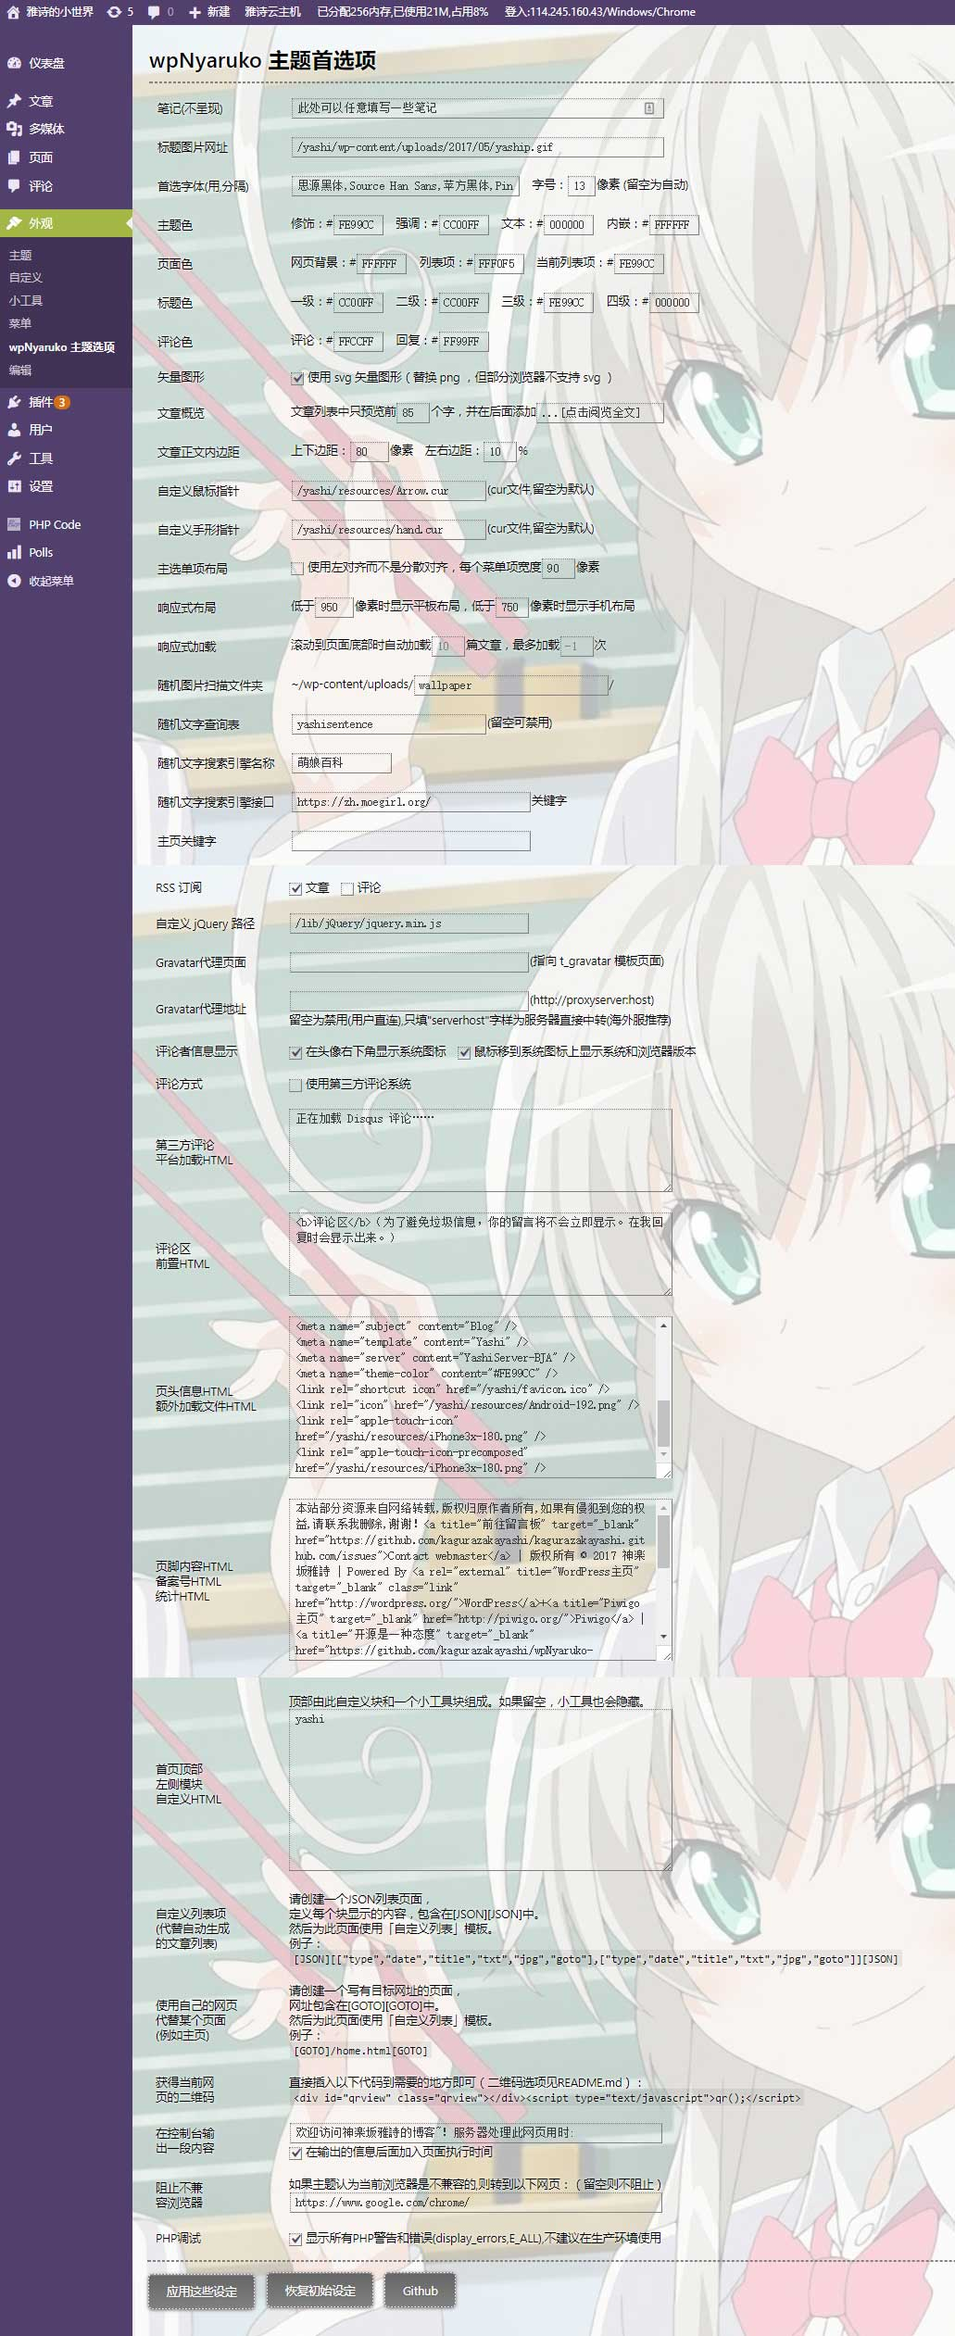
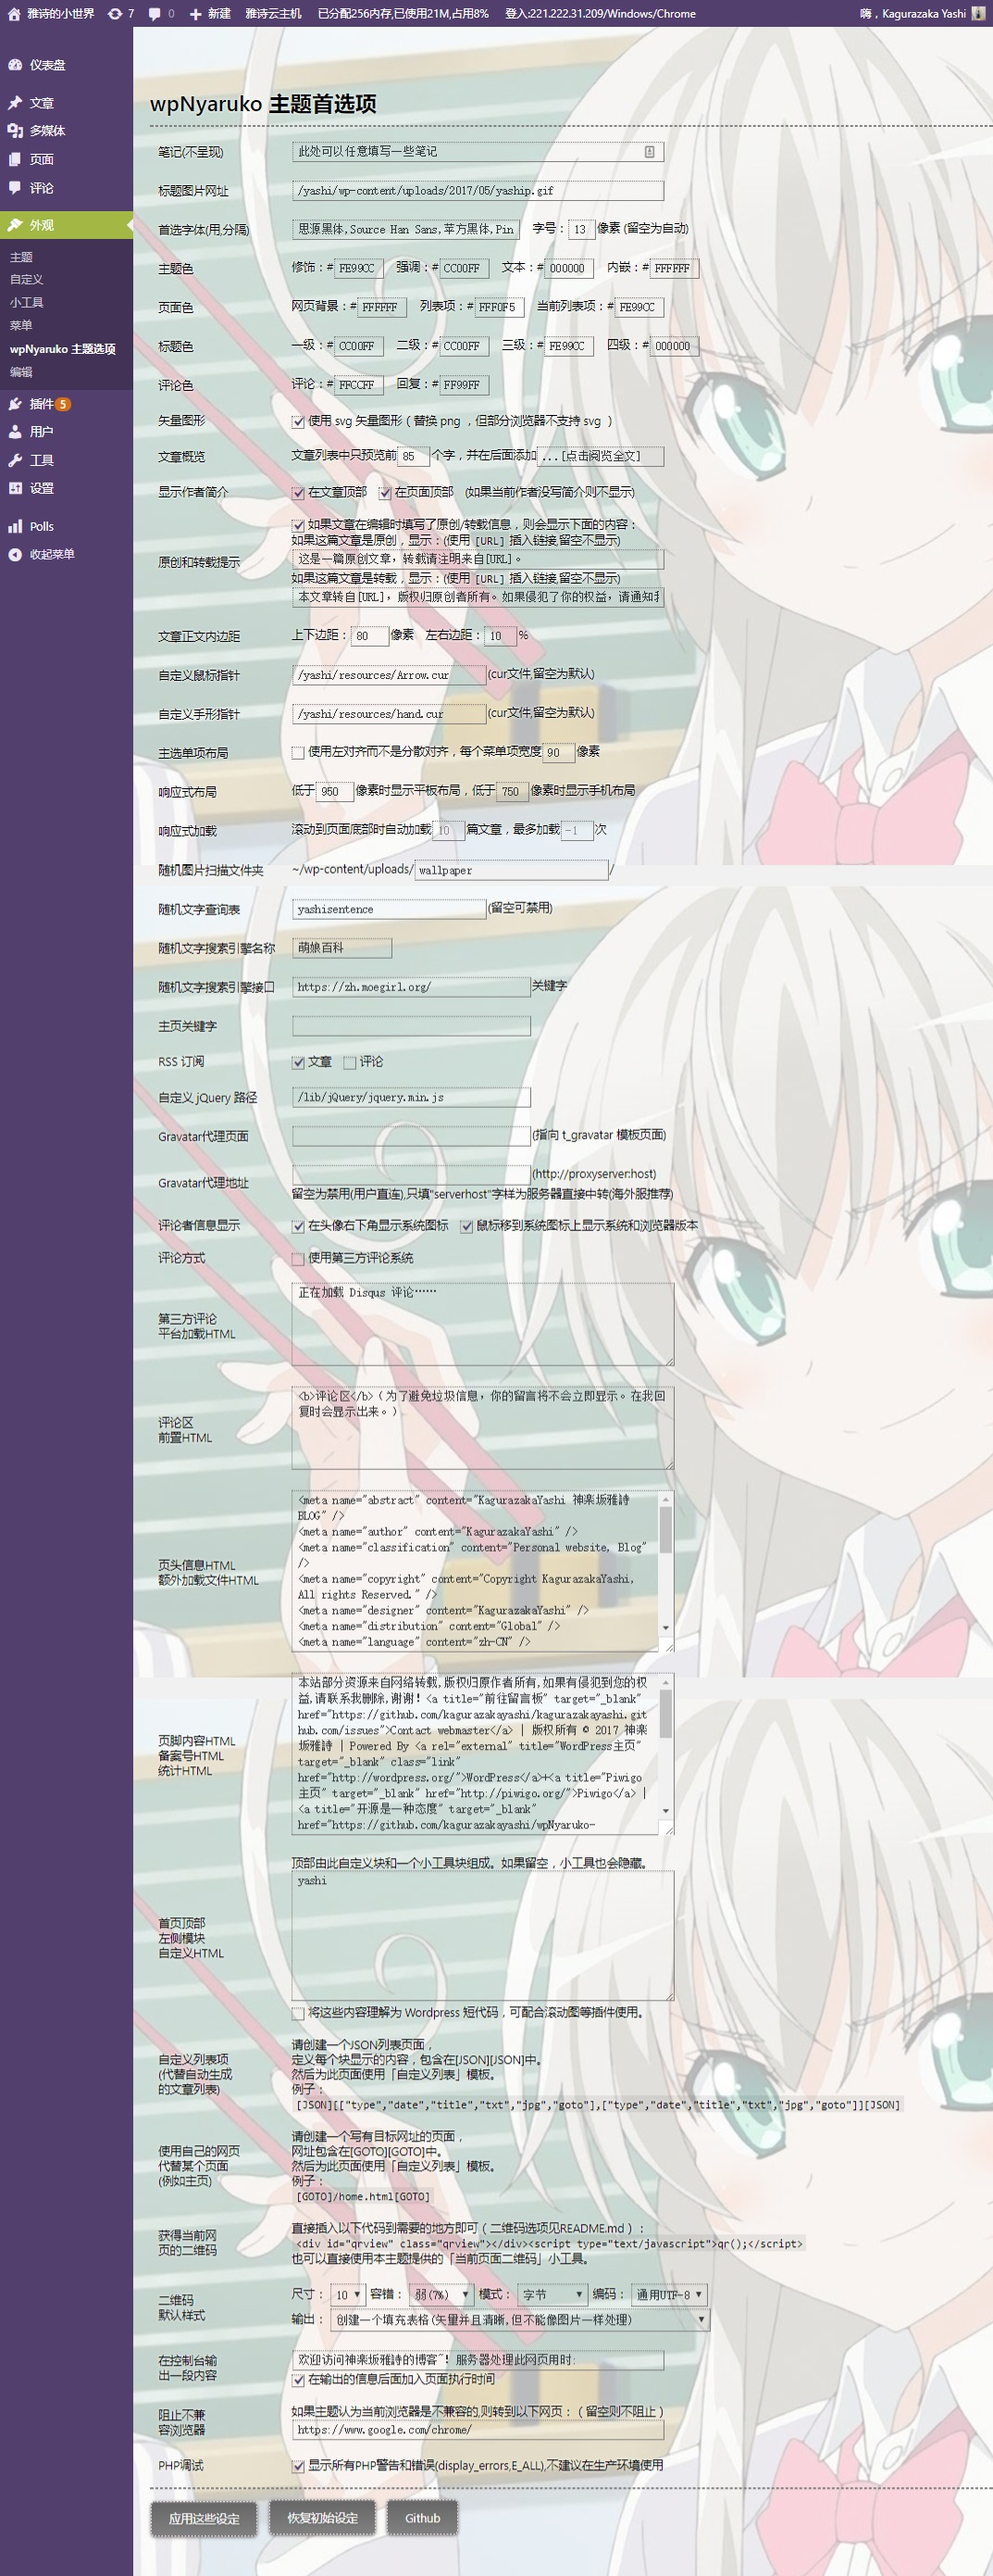
增加当前页面二维码内置小工具,主题设定增加二维码默认生成参数设置

diff --git a/comments.js b/comments.js
@@ -141,7 +141,28 @@ function emailonblur() {
 }
 //type=1-40;errorcorrection=L,M,Q,H;mode=Numeric,Alphanumeric,Byte,Kanji;imgtype=tab,svg,img
 //<div id="qrview" class="qrview"></div><script type="text/javascript">qr();</script>
-function qr(text=window.location.href,innerid="qrview",imgtype="tab",type="10",errorcorrection="L",mode="Byte") {
+
+function qr(text="",innerid="qrview",imgtype="",type="",errorcorrection="",mode="") {
+	if (text == "") {
+		text = window.location.href;
+	}
+	if (qrdef.length > 0) {
+		if (imgtype == "") {
+			imgtype = qrdef[4];
+		}
+		if (type == "") {
+			type = qrdef[0];
+		}
+		if (errorcorrection == "") {
+			errorcorrection = qrdef[1];
+		}
+		if (mode == "") {
+			mode = qrdef[2];
+		}
+	}
+	if (imgtype == "" || type == "" || errorcorrection == "" || mode == "") {
+		return;
+	}
 	var qrgen = qrcode(type, errorcorrection);
 	qrgen.addData(text, mode);
 	qrgen.make();

diff --git a/style-admin.css b/style-admin.css
@@ -29,7 +29,7 @@
     text-shadow: 0px 0px 5px #fff;
     color: #000;
 }
-#optionbox table input,#optionbox table textarea {
+#optionbox table input,#optionbox table textarea,#optionbox table select,#optionbox table option {
     background-color: transparent;
     font-family: monospace;
     border-left: dotted gray 1px;
@@ -39,7 +39,7 @@
     color: 000;
     font-size: 14px;
 }
-#optionbox table input:focus,#optionbox table textarea:focus {
+#optionbox table input:focus,#optionbox table textarea:focus,#optionbox table select:focus,#optionbox table option:focus {
     background-color: #FFF;
     font-family: monospace;
     border-left: dotted #FE99CC 2px;

diff --git a/theme-options.php b/theme-options.php
@@ -58,6 +58,11 @@ function getOptions() {
         $wpNyarukoOption['wpNyarukoBanBrowser'] = '';
         $wpNyarukoOption['wpNyarukoWordlimit'] = '85';
         $wpNyarukoOption['wpNyarukoWLInfo'] = '...[点击阅览全文]';
+        $wpNyarukoOption['wpNyarukoQRtype'] = 10;
+        $wpNyarukoOption['wpNyarukoQRecorrection'] = 'L';
+        $wpNyarukoOption['wpNyarukoQRmode'] = 'Byte';
+        $wpNyarukoOption['wpNyarukoQRecode'] = 'UTF-8';
+        $wpNyarukoOption['wpNyarukoQRimgtype'] = 'tab';
         update_option('wpNyaruko_options', $wpNyarukoOption);
         die('<div id="wpNyarukoInfo" style="text-align: center; width: 100%; height: 25px; line-height: 25px; border-radius: 0px 0px 5px 5px; overflow: hidden; background-color: yellow; box-shadow: 0px 0px 5px gray; font-size: 12px;">欢迎使用 wpNyaruko 主题，请先完成初始设定。<a href="themes.php?page=theme-options.php">现在开始</a></div>');
     }
@@ -126,6 +131,11 @@ function init() {
         @$wpNyarukoOption['wpNyarukoOriginal'] = stripslashes($_POST['wpNyarukoOriginal']);
         @$wpNyarukoOption['wpNyarukoReproduced'] = stripslashes($_POST['wpNyarukoReproduced']);
         @$wpNyarukoOption['wpNyarukoOR'] = stripslashes($_POST['wpNyarukoOR']);
+        @$wpNyarukoOption['wpNyarukoQRtype'] = stripslashes($_POST['wpNyarukoQRtype']);
+        @$wpNyarukoOption['wpNyarukoQRecorrection'] = stripslashes($_POST['wpNyarukoQRecorrection']);
+        @$wpNyarukoOption['wpNyarukoQRmode'] = stripslashes($_POST['wpNyarukoQRmode']);
+        @$wpNyarukoOption['wpNyarukoQRecode'] = stripslashes($_POST['wpNyarukoQRecode']);
+        @$wpNyarukoOption['wpNyarukoQRimgtype'] = stripslashes($_POST['wpNyarukoQRimgtype']);
         update_option('wpNyaruko_options', $wpNyarukoOption);
     } else {
         getOptions();
@@ -294,7 +304,79 @@ if(!is_admin()) {
     </tr>
     <tr>
       <td>获得当前网<br/>页的二维码</td>
-      <td>直接插入以下代码到需要的地方即可（二维码选项见README.md）：<br/><code>&lt;div id="qrview" class="qrview"&gt;&lt;/div&gt;&lt;script type="text/javascript"&gt;qr();&lt;/script&gt;</code></td>
+      <td>直接插入以下代码到需要的地方即可（二维码选项见README.md）：<br/><code>&lt;div id="qrview" class="qrview"&gt;&lt;/div&gt;&lt;script type="text/javascript"&gt;qr();&lt;/script&gt;</code><br/>也可以直接使用本主题提供的「当前页面二维码」小工具。</td>
+    </tr>
+    <tr>
+      <td>二维码<br/>默认样式</td>
+      <td>
+      尺寸：
+      <select name="wpNyarukoQRtype">
+      <?php 
+      $selected = ' selected="selected"';
+      $wpNyarukoQRtype = 10;
+      if(@$wpNyarukoOption['wpNyarukoQRtype']!='') {
+        $wpNyarukoQRtype = (int)($wpNyarukoOption['wpNyarukoQRtype']);
+      }
+      for ($i=1; $i <= 40; $i++) {
+        if ($i != $wpNyarukoQRtype) {
+          echo '<option value="'.$i.'">'.$i.'</option>';
+        } else {
+          echo '<option value="'.$wpNyarukoQRtype.'" selected="selected">'.$wpNyarukoQRtype.'</option>';
+        }
+      }
+      ?>
+      </select>
+      容错：
+      <?php 
+      $wpNyarukoQRecorrection = "L";
+      if(@$wpNyarukoOption['wpNyarukoQRecorrection']!='') {
+        $wpNyarukoQRecorrection = $wpNyarukoOption['wpNyarukoQRecorrection'];
+      }
+      ?>
+      <select name="wpNyarukoQRecorrection">
+        <option value="L"<?php if($wpNyarukoQRecorrection=="L") echo $selected; ?>>弱(7%)</option>
+        <option value="M"<?php if($wpNyarukoQRecorrection=="M") echo $selected; ?>>标(15%)</option>
+        <option value="Q"<?php if($wpNyarukoQRecorrection=="Q") echo $selected; ?>>中(25%)</option>
+        <option value="H"<?php if($wpNyarukoQRecorrection=="H") echo $selected; ?>>强(30%)</option>
+      </select>
+      模式：
+      <?php 
+      $wpNyarukoQRmode = "Byte";
+      if(@$wpNyarukoOption['wpNyarukoQRmode']!='') {
+        $wpNyarukoQRmode = $wpNyarukoOption['wpNyarukoQRmode'];
+      }
+      ?>
+      <select name="wpNyarukoQRmode">
+        <option value="Numeric"<?php if($wpNyarukoQRmode=="Numeric") echo $selected; ?>>数字</option>
+        <option value="Alphanumeric"<?php if($wpNyarukoQRmode=="Alphanumeric") echo $selected; ?>>字母数字</option>
+        <option value="Byte"<?php if($wpNyarukoQRmode=="Byte") echo $selected; ?>>字节</option>
+        <option value="Kanji"<?php if($wpNyarukoQRmode=="Kanji") echo $selected; ?>>汉字</option>
+      </select>
+      编码：
+      <?php 
+      $wpNyarukoQRecode = "UTF-8";
+      if(@$wpNyarukoOption['wpNyarukoQRecode']!='') {
+        $wpNyarukoQRecode = $wpNyarukoOption['wpNyarukoQRecode'];
+      }
+      ?>
+      <select name="wpNyarukoQRecode">
+        <!--<option value="default"<?php if($wpNyarukoQRecode=="default") echo $selected; ?>>默认编码</option>
+        <option value="SJIS"<?php if($wpNyarukoQRecode=="SJIS") echo $selected; ?>>日文SJIS</option>-->
+        <option value="UTF-8"<?php if($wpNyarukoQRecode=="UTF-8") echo $selected; ?>>通用UTF-8</option>
+      </select>
+      <br>输出：
+      <?php 
+      $wpNyarukoQRimgtype = "UTF-8";
+      if(@$wpNyarukoOption['wpNyarukoQRimgtype']!='') {
+        $wpNyarukoQRimgtype = $wpNyarukoOption['wpNyarukoQRimgtype'];
+      }
+      ?>
+      <select name="wpNyarukoQRimgtype">
+        <option value="tab"<?php if($wpNyarukoQRimgtype=="tab") echo $selected; ?>>创建一个填充表格(矢量并且清晰,但不能像图片一样处理)</option>
+        <option value="svg"<?php if($wpNyarukoQRimgtype=="svg") echo $selected; ?>>SVG图形(矢量并且清晰,可像图片一样处理,但不是所有浏览器都支持)</option>
+        <option value="img"<?php if($wpNyarukoQRimgtype=="img") echo $selected; ?>>标准图片(生成一张标准的图片,兼容性最佳,可以图片另存为等操作)</option>
+      </select>
+      </td>
     </tr>
     <tr>
       <td>在控制台输<br/>出一段内容</td>

diff --git a/header.php b/header.php
@@ -101,6 +101,22 @@ $keywords = trim(strip_tags($keywords));
 //   }
 $sentences = "";
 $nowsentence = "";
+//QRdef
+if ($wpNyarukoOption['wpNyarukoQRtype'] && $wpNyarukoOption['wpNyarukoQRtype'] != "" &&
+$wpNyarukoOption['wpNyarukoQRecorrection'] && $wpNyarukoOption['wpNyarukoQRecorrection'] != "" &&
+$wpNyarukoOption['wpNyarukoQRmode'] && $wpNyarukoOption['wpNyarukoQRmode'] != "" &&
+$wpNyarukoOption['wpNyarukoQRecode'] && $wpNyarukoOption['wpNyarukoQRecode'] != "" &&
+$wpNyarukoOption['wpNyarukoQRimgtype'] && $wpNyarukoOption['wpNyarukoQRimgtype'] != ""
+) {
+    echo '<script type="text/javascript">var qrdef = [';
+    echo $wpNyarukoOption['wpNyarukoQRtype'].',';
+    echo '"'.$wpNyarukoOption['wpNyarukoQRecorrection'].'",';
+    echo '"'.$wpNyarukoOption['wpNyarukoQRmode'].'",';
+    echo '"'.$wpNyarukoOption['wpNyarukoQRecode'].'",';
+    echo '"'.$wpNyarukoOption['wpNyarukoQRimgtype'].'"];</script>';
+} else {
+    echo '<script type="text/javascript">var qrdef = [];</script>';
+}
 if ($wpNyarukoOption['wpNyarukoTextTable'] && $wpNyarukoOption['wpNyarukoTextTable'] != "") {
     $sentences = $wpdb->get_results("select * from ".$wpNyarukoOption['wpNyarukoTextTable']." order by rand() limit 1;")[0];
     if ($sentences && $sentences != null) {

diff --git a/functions.php b/functions.php
@@ -36,12 +36,18 @@ if( function_exists('register_sidebar') ) {
 		'after_title' => '</h4>'
 	));
 }
-
 if (function_exists('register_nav_menus')){
 	register_nav_menus(array(
 	//主键key调用nav时使用，值value为后台菜单显示名称
 		'primary' => 'Primary Navigation'
 	));
+}
+if (function_exists('register_sidebar_widget')){
+  register_sidebar_widget("wpNyaruko:当前页面二维码","b_qr");
+}
+add_action( 'widgets_admin_page', 'b_qr_admin' );
+function b_qr_admin() {
+	echo '<p style="clear:both;">添加你想要的内容哦</p>';
 }
 // function delete_menu_more_class($var) {
 // return is_array($var) ? array() : '';
@@ -50,7 +56,10 @@ if (function_exists('register_nav_menus')){
 // add_filter('nav_menu_item_id', 'delete_menu_more_class', 100, 1);
 // add_filter('page_css_class', 'delete_menu_more_class', 100, 1);
 
-
+// 小工具
+function b_qr() {
+  include(TEMPLATEPATH . '/b_qr.php');
+}
 /*获取图片开始*/
 function catch_that_image() {
 global $post, $posts;

diff --git a/b_qr.php b/b_qr.php
@@ -1,0 +1,4 @@
+<center>
+<div id="qrbarview"></div>
+</center>
+<script type="text/javascript">qr("","qrbarview");</script>

diff --git a/README.md b/README.md
@@ -93,15 +93,19 @@
 
 ### 二维码
 
-要获得当前网页的二维码，直接插入以下代码到需要的地方即可：
+要获得当前文章/页面的二维码，使用主题内置小工具「当前页面二维码」即可。
 
-`<div id="qrview" class="qrview"></div><script type="text/javascript">qr();</script>`
+或者，直接插入以下代码到需要的地方：
+
+`<div id="qrview"></div><script type="text/javascript">qr();</script>`
 
 `qr()` 可以输入以下参数：
 - type（类型） = 1-40（默认值：10）
 - errorcorrection（容错级别） = L,M,Q,H（默认值：L）
 - mode（内容模式） = Numeric,Alphanumeric,Byte,Kanji（默认值：Byte）
 - imgtype（输出格式） = tab（表格）,svg（矢量图）,img（普通图片）（默认值：tab）
+
+小工具和插入代码的参数默认值可以在主题设定中修改。
 
 ### 原创与转载提示文本
 
@@ -149,8 +153,10 @@ WP主题显示图：
 - [kazuhikoarase](https://github.com/kazuhikoarase) / [qrcode-generator](https://github.com/kazuhikoarase/qrcode-generator/tree/master/js)
 
 ## 许可协议
-wpNyaruko-W（本仓库）： MIT License.
-wpNyaruko： 定制服务，商业授权。
+- wpNyaruko-W（本仓库）
+  - MIT License.
+- wpNyaruko
+  - 定制服务，商业授权。
 
 ```
                    ,;;77;
